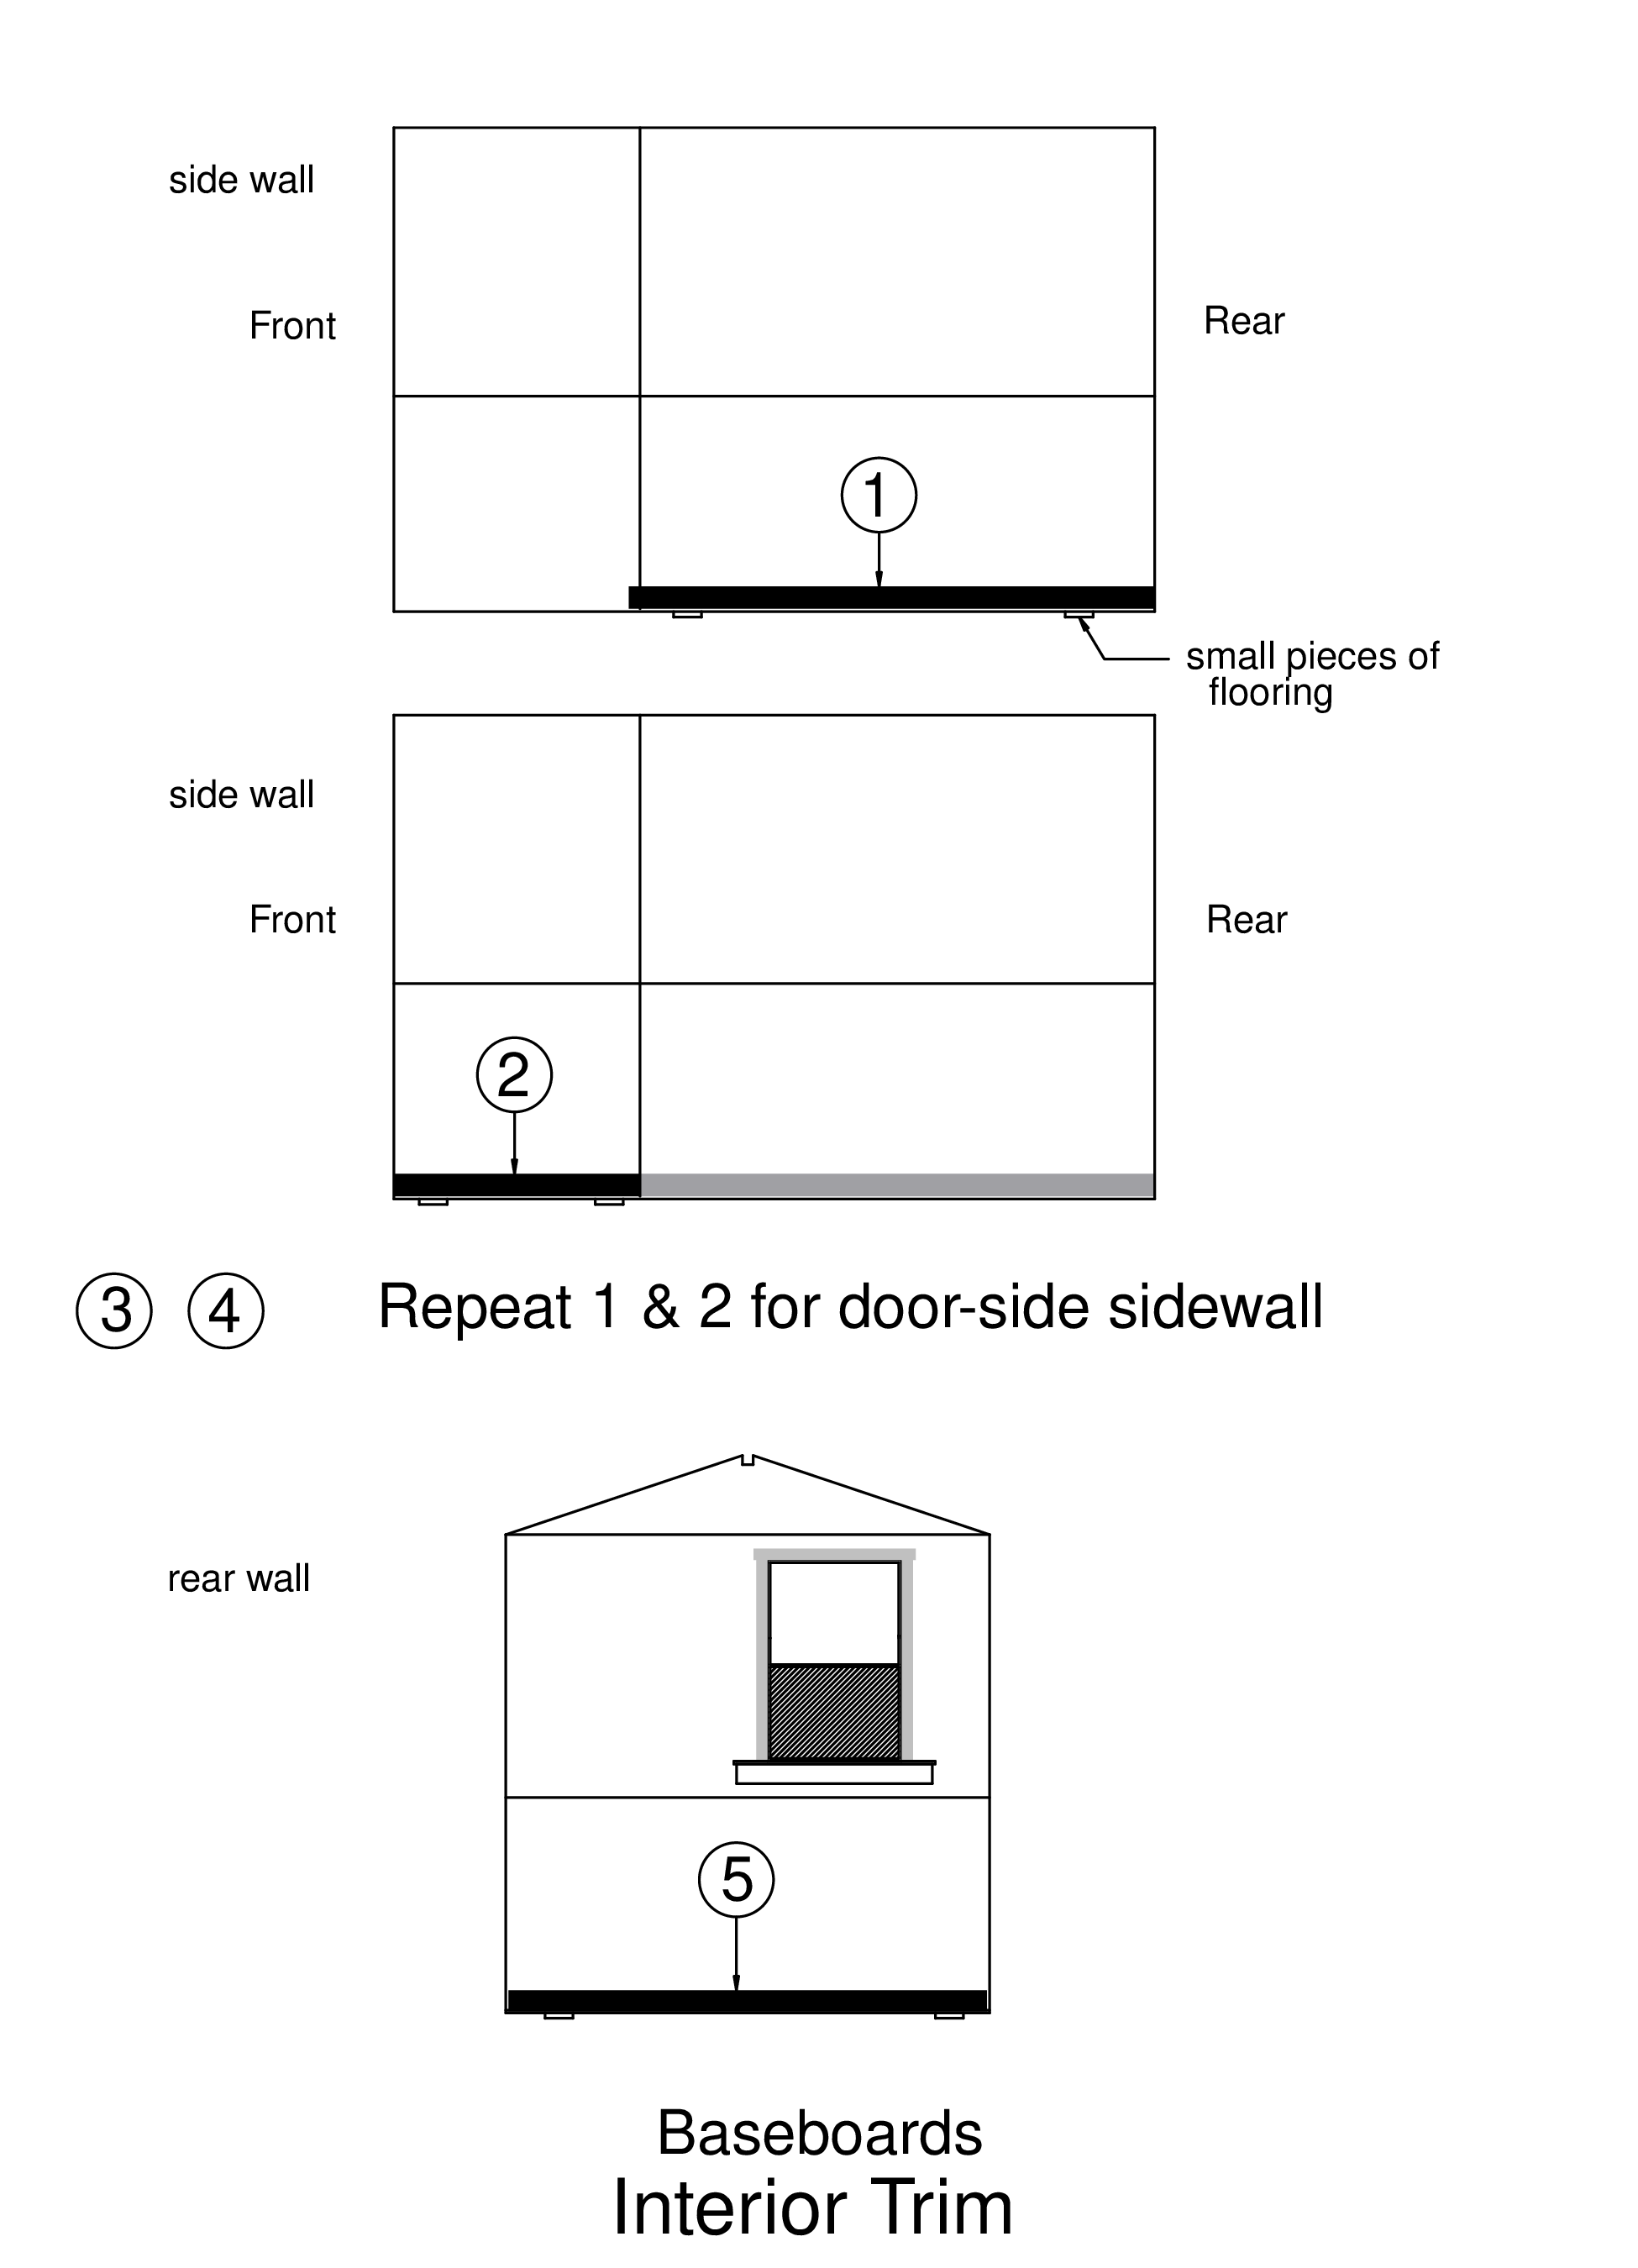
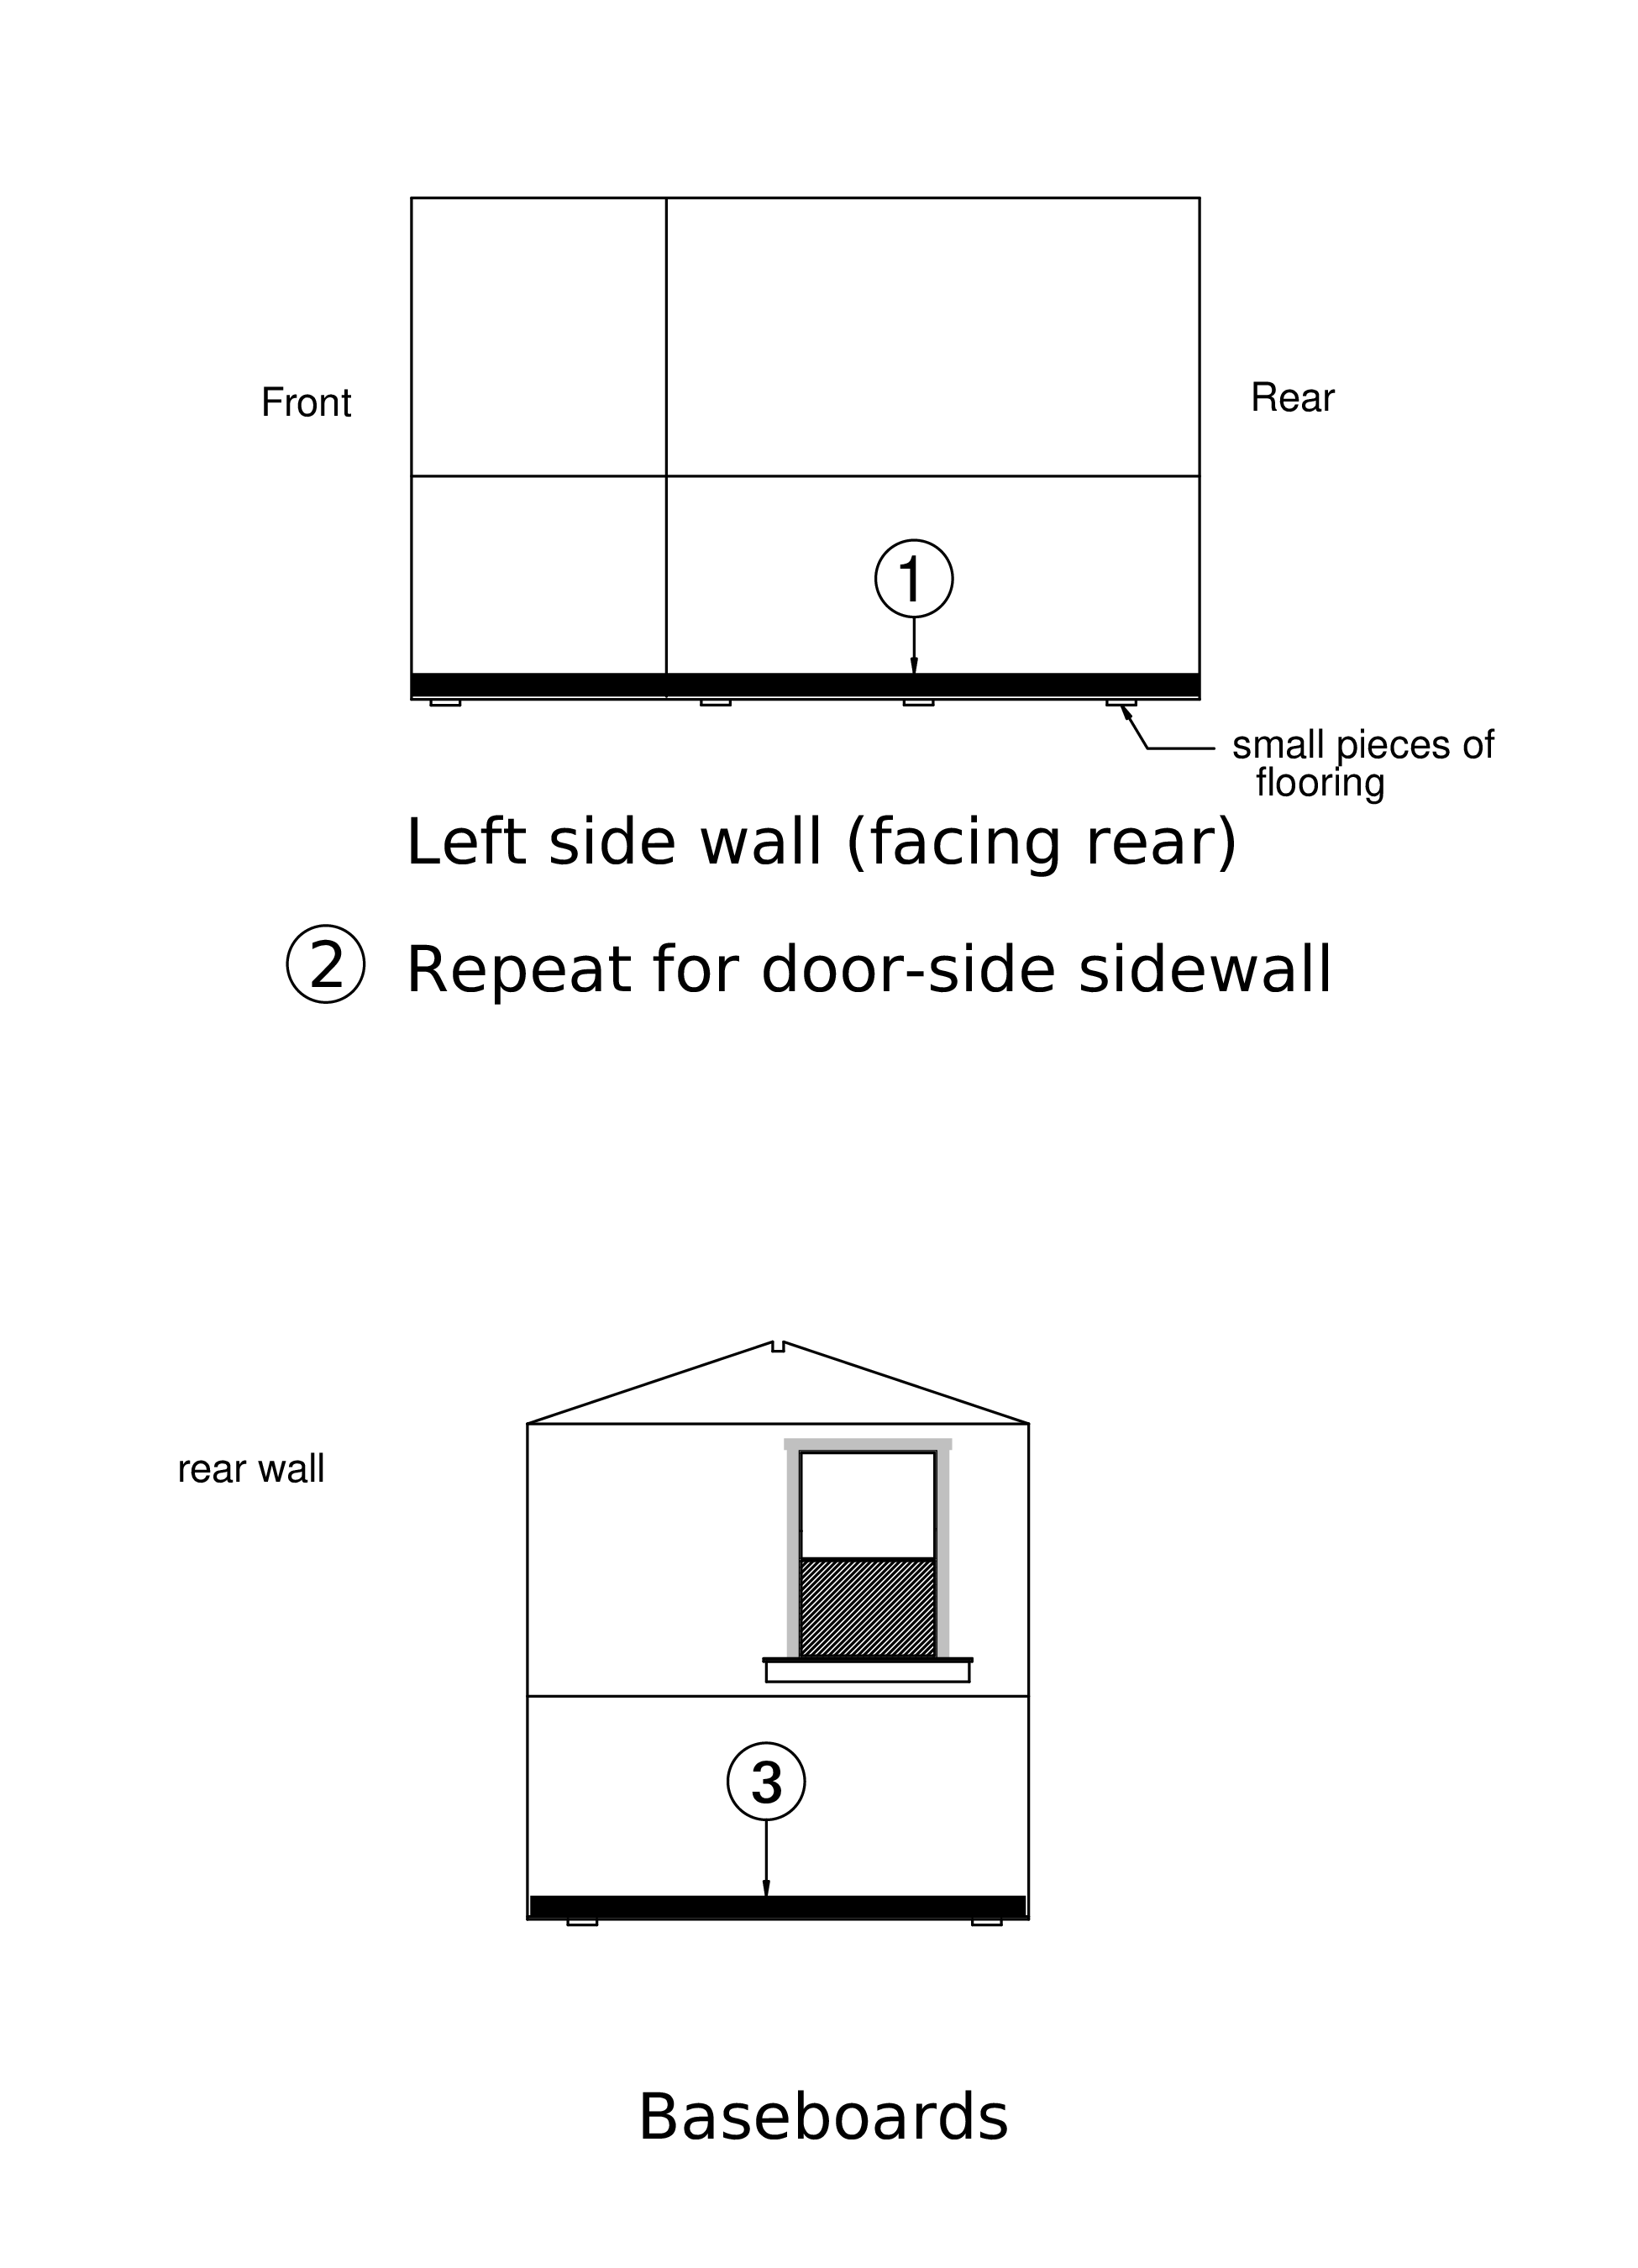
Updated trim to show long baseboard material

diff --git a/Interior_Trim/interior_trim.md b/Interior_Trim/interior_trim.md
@@ -22,22 +22,15 @@ insertion easier.
     1 every 8"-12" in the middle\
     2 at the other end
 
-Install trim in the following order
+### &emsp;&emsp;**Install trim in the following order**
 
 ## Baseboards
 
-1. Using long (8' x 4") white baseboards, start at the back of one side
-  wall, nail in place to the side wall. Be sure that the baseboard rests
-  on several spacers along its length, to assure an even gap above the
-  finished floor.
+1. Measure along a sidewall from back to front. Using long 4" white baseboards, cut a piece this length and nail in place to the side wall. Be sure that the baseboard rests on several spacers along its length, to assure an even gap above the finished floor.
 
-2. When these baseboards are installed, measure from ends of each board
-    to the front wall. Cut and nail another piece of baseboard (matching
-    the top surface with long baseboard).
+2. Repeat on the other side wall.
 
-3 & 4 Repeat 1 & 2 on the other side wall.
-
-5. Measure between the side baseboards at the rear wall. Measure long
+3. Measure between the side baseboards at the rear wall. Measure long
 (about 1/16") so it will fit snugly. Cut a length of baseboard and nail.
 {{< pagebreak >}}
 ![](images/baseboards.png)
@@ -50,7 +43,7 @@ Check that MEDUSA (foam backer rod) is installed around the window unit.
 - Pre-drill three holes using countersink bit
 - Position shelf in window frame, and screw in 3 **LONG** screws next to bottom of the window
 - Cut 2x4 support block for under the shelf\
-    --- subtract 1 inch from shelf width -- ½" on each side
+    --- subtract 1 inch from shelf width ( ½" on each side )
 - Center block under the shelf with long side against the wall, **and 1/2" shelf overhang on each end.**
 - Mark on the wall where the ends of the 2x4 should be, and then mark on the 2x4 where the lines of paneling screws fall (stud markers).
 - Preset 2 **LONG** screws in a vertical line into the block at each of the stud markers
@@ -60,7 +53,7 @@ Check that MEDUSA (foam backer rod) is installed around the window unit.
 ## Rear Window Trim
 
 - Use precut pieces for window opening side lining
-- nail 1 piece to each side of the window opening, edge flush with wall. (2 nails at top, 1 every 8", 2 at the bottom)
+- Nail 1 piece to each side of the window opening, edge flush with wall. (2 nails at top, 1 every 8", 2 at the bottom)
 - Measure (very close to window) between the sides for the top of the window liner. Cut one piece that length and nail in place.
 - Measure the sides of the window from shelf to top of window opening.
     Cut and nail 2" trim to both sides of the window, keeping the